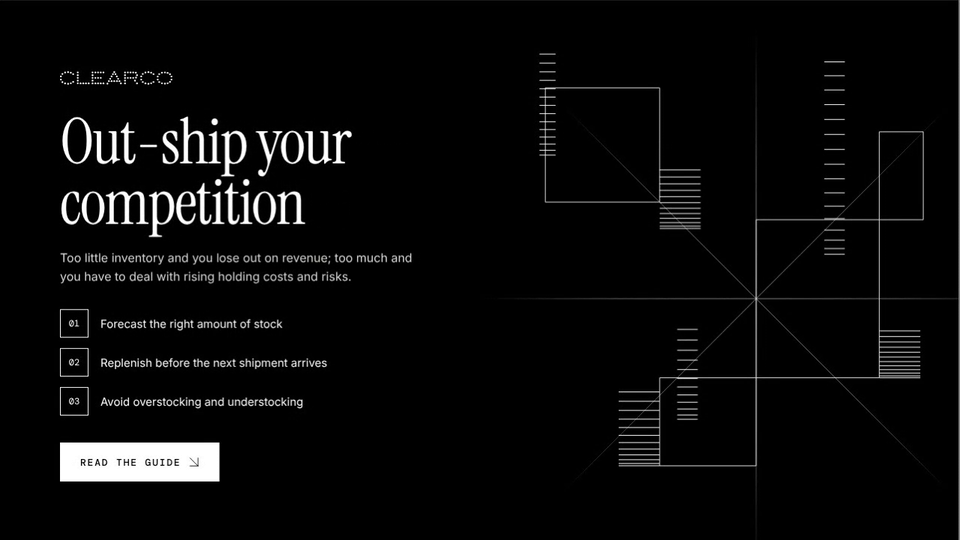
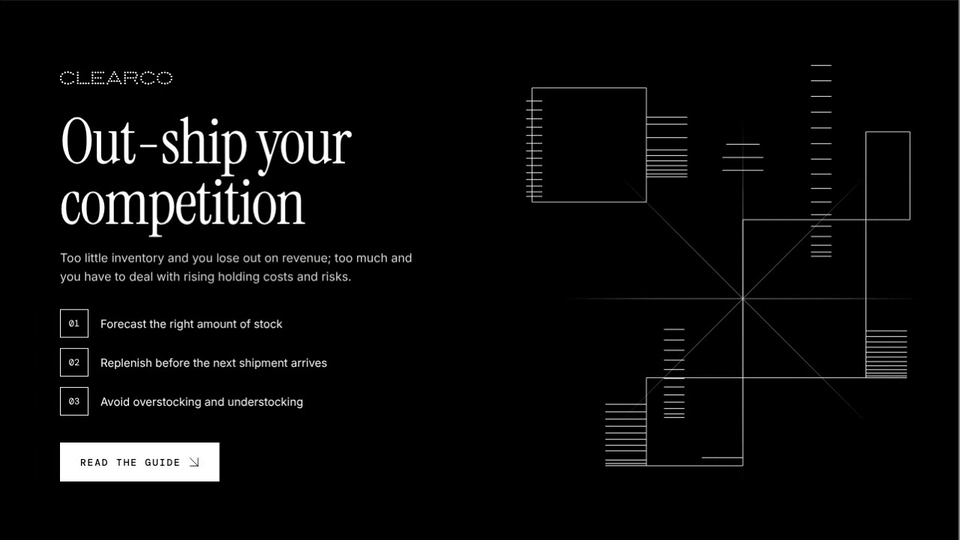
Clearco Logistics Guide: hero line sequence, grid alignment, shorter rays, caption wording (#106)
* Clearco Logistics Guide: hero centre line aligns to a vertical grid line in the quote section

Claude-Session: https://claude.ai/code/session_01AHeBdwjGFXBCupAH8deQwB

* Clearco Logistics Guide: skinny hero stack sits lower with limited travel so it keeps clear of the top of the screen

Claude-Session: https://claude.ai/code/session_01AHeBdwjGFXBCupAH8deQwB

* Clearco Logistics Guide: lines slide out of two stacks and form emerging stacks at the centre line; shorter rays that stop above the next section

- Hero: 1-2 lines slide out of two stacks, across to the centre line, and join one new line each to make a 3-line stack above and below; the stacks float, their lines disappear in sequence, the slid lines return, and it loops
- Hero rays shortened so the vertical line no longer reaches the next section
- Re-record clip

Claude-Session: https://claude.ai/code/session_01AHeBdwjGFXBCupAH8deQwB

* Clearco Logistics Guide: caption reads 'Every 40 seconds, a product enters the logistics system.'

Claude-Session: https://claude.ai/code/session_01AHeBdwjGFXBCupAH8deQwB

---------

diff --git a/clearco-logistics-guide/index.html b/clearco-logistics-guide/index.html
@@ -224,7 +224,7 @@ footer .sign{margin-top:28px;color:#fff;font-size:14px}
     </ul>
     <a class="btn light" href="https://www.clear.co/blog/navigating-inventory-logistics-a-resource-for-founders">Read the guide <svg class="arr" viewBox="0 0 24 24" width="14" height="14" fill="none" stroke="currentColor" stroke-width="1.5" stroke-linecap="square" aria-hidden="true"><path d="M3 3 21 21M21 3v18M3 21h18"/></svg></a>
     </div>
-    <div class="vis"><svg viewBox="-40 -40 596 596" width="596" height="596" role="img" aria-label="Abstract linework: four outlined boxes meeting corner to corner and thin lines radiating from a centre point on black, with stacks of parallel white lines that float up and down"><defs><linearGradient id="r0" gradientUnits="userSpaceOnUse" x1="288" y1="288" x2="668.0" y2="288.0"><stop offset="0" stop-color="#fff" stop-opacity=".55"/><stop offset=".5" stop-color="#fff" stop-opacity=".45"/><stop offset="1" stop-color="#fff" stop-opacity="0"/></linearGradient><linearGradient id="r1" gradientUnits="userSpaceOnUse" x1="288" y1="288" x2="556.7" y2="556.7"><stop offset="0" stop-color="#fff" stop-opacity=".55"/><stop offset=".5" stop-color="#fff" stop-opacity=".45"/><stop offset="1" stop-color="#fff" stop-opacity="0"/></linearGradient><linearGradient id="r2" gradientUnits="userSpaceOnUse" x1="288" y1="288" x2="288.0" y2="668.0"><stop offset="0" stop-color="#fff" stop-opacity=".55"/><stop offset=".5" stop-color="#fff" stop-opacity=".45"/><stop offset="1" stop-color="#fff" stop-opacity="0"/></linearGradient><linearGradient id="r3" gradientUnits="userSpaceOnUse" x1="288" y1="288" x2="19.3" y2="556.7"><stop offset="0" stop-color="#fff" stop-opacity=".55"/><stop offset=".5" stop-color="#fff" stop-opacity=".45"/><stop offset="1" stop-color="#fff" stop-opacity="0"/></linearGradient><linearGradient id="r4" gradientUnits="userSpaceOnUse" x1="288" y1="288" x2="-92.0" y2="288.0"><stop offset="0" stop-color="#fff" stop-opacity=".55"/><stop offset=".5" stop-color="#fff" stop-opacity=".45"/><stop offset="1" stop-color="#fff" stop-opacity="0"/></linearGradient><linearGradient id="r5" gradientUnits="userSpaceOnUse" x1="288" y1="288" x2="19.3" y2="19.3"><stop offset="0" stop-color="#fff" stop-opacity=".55"/><stop offset=".5" stop-color="#fff" stop-opacity=".45"/><stop offset="1" stop-color="#fff" stop-opacity="0"/></linearGradient><linearGradient id="r6" gradientUnits="userSpaceOnUse" x1="288" y1="288" x2="288.0" y2="-92.0"><stop offset="0" stop-color="#fff" stop-opacity=".55"/><stop offset=".5" stop-color="#fff" stop-opacity=".45"/><stop offset="1" stop-color="#fff" stop-opacity="0"/></linearGradient><linearGradient id="r7" gradientUnits="userSpaceOnUse" x1="288" y1="288" x2="556.7" y2="19.3"><stop offset="0" stop-color="#fff" stop-opacity=".55"/><stop offset=".5" stop-color="#fff" stop-opacity=".45"/><stop offset="1" stop-color="#fff" stop-opacity="0"/></linearGradient></defs><g fill="none" stroke="#fff" stroke-width="1" vector-effect="non-scaling-stroke"><g class="ray"><line x1="288" y1="288" x2="668.0" y2="288.0" stroke="url(#r0)"/><line x1="288" y1="288" x2="556.7" y2="556.7" stroke="url(#r1)"/><line x1="288" y1="288" x2="288.0" y2="668.0" stroke="url(#r2)"/><line x1="288" y1="288" x2="19.3" y2="556.7" stroke="url(#r3)"/><line x1="288" y1="288" x2="-92.0" y2="288.0" stroke="url(#r4)"/><line x1="288" y1="288" x2="19.3" y2="19.3" stroke="url(#r5)"/><line x1="288" y1="288" x2="288.0" y2="-92.0" stroke="url(#r6)"/><line x1="288" y1="288" x2="556.7" y2="19.3" stroke="url(#r7)"/></g><g class="blk" opacity=".9"><rect x="0" y="0" width="156" height="156"/><rect x="288" y="180" width="168" height="216"/><rect x="456" y="60" width="60" height="120"/><rect x="156" y="396" width="132" height="120"/></g></g><g stroke="#fff" stroke-width="1"><g class="st" data-x="156" data-y="116" data-h="80" data-w="56" data-start="0.2"></g><g class="st" data-x="100" data-y="484" data-h="64" data-w="56" data-start="1.4"></g><g class="st" data-x="456" data-y="364" data-h="64" data-w="56" data-start="2.6"></g><g class="st" data-x="381" data-y="133" data-h="194" data-w="28" data-n="16" data-start="0.9"></g><g class="st" data-x="180" data-y="390" data-h="120" data-w="28" data-n="12" data-start="2.1"></g><g class="st" data-x="-8" data-y="14" data-h="120" data-w="22" data-n="14" data-start="1.7"></g></g></svg></div>
+    <div class="vis"><svg viewBox="-40 -40 596 596" width="596" height="596" role="img" aria-label="Abstract linework: four outlined boxes meeting corner to corner and thin lines radiating from a centre point on black, with stacks of parallel white lines that float up and down"><defs><linearGradient id="r0" gradientUnits="userSpaceOnUse" x1="288" y1="288" x2="538.0" y2="288.0"><stop offset="0" stop-color="#fff" stop-opacity=".55"/><stop offset=".5" stop-color="#fff" stop-opacity=".45"/><stop offset="1" stop-color="#fff" stop-opacity="0"/></linearGradient><linearGradient id="r1" gradientUnits="userSpaceOnUse" x1="288" y1="288" x2="464.8" y2="464.8"><stop offset="0" stop-color="#fff" stop-opacity=".55"/><stop offset=".5" stop-color="#fff" stop-opacity=".45"/><stop offset="1" stop-color="#fff" stop-opacity="0"/></linearGradient><linearGradient id="r2" gradientUnits="userSpaceOnUse" x1="288" y1="288" x2="288.0" y2="538.0"><stop offset="0" stop-color="#fff" stop-opacity=".55"/><stop offset=".5" stop-color="#fff" stop-opacity=".45"/><stop offset="1" stop-color="#fff" stop-opacity="0"/></linearGradient><linearGradient id="r3" gradientUnits="userSpaceOnUse" x1="288" y1="288" x2="111.2" y2="464.8"><stop offset="0" stop-color="#fff" stop-opacity=".55"/><stop offset=".5" stop-color="#fff" stop-opacity=".45"/><stop offset="1" stop-color="#fff" stop-opacity="0"/></linearGradient><linearGradient id="r4" gradientUnits="userSpaceOnUse" x1="288" y1="288" x2="38.0" y2="288.0"><stop offset="0" stop-color="#fff" stop-opacity=".55"/><stop offset=".5" stop-color="#fff" stop-opacity=".45"/><stop offset="1" stop-color="#fff" stop-opacity="0"/></linearGradient><linearGradient id="r5" gradientUnits="userSpaceOnUse" x1="288" y1="288" x2="111.2" y2="111.2"><stop offset="0" stop-color="#fff" stop-opacity=".55"/><stop offset=".5" stop-color="#fff" stop-opacity=".45"/><stop offset="1" stop-color="#fff" stop-opacity="0"/></linearGradient><linearGradient id="r6" gradientUnits="userSpaceOnUse" x1="288" y1="288" x2="288.0" y2="38.0"><stop offset="0" stop-color="#fff" stop-opacity=".55"/><stop offset=".5" stop-color="#fff" stop-opacity=".45"/><stop offset="1" stop-color="#fff" stop-opacity="0"/></linearGradient><linearGradient id="r7" gradientUnits="userSpaceOnUse" x1="288" y1="288" x2="464.8" y2="111.2"><stop offset="0" stop-color="#fff" stop-opacity=".55"/><stop offset=".5" stop-color="#fff" stop-opacity=".45"/><stop offset="1" stop-color="#fff" stop-opacity="0"/></linearGradient></defs><g fill="none" stroke="#fff" stroke-width="1" vector-effect="non-scaling-stroke"><g class="ray"><line x1="288" y1="288" x2="538.0" y2="288.0" stroke="url(#r0)"/><line x1="288" y1="288" x2="464.8" y2="464.8" stroke="url(#r1)"/><line x1="288" y1="288" x2="288.0" y2="538.0" stroke="url(#r2)"/><line x1="288" y1="288" x2="111.2" y2="464.8" stroke="url(#r3)"/><line x1="288" y1="288" x2="38.0" y2="288.0" stroke="url(#r4)"/><line x1="288" y1="288" x2="111.2" y2="111.2" stroke="url(#r5)"/><line x1="288" y1="288" x2="288.0" y2="38.0" stroke="url(#r6)"/><line x1="288" y1="288" x2="464.8" y2="111.2" stroke="url(#r7)"/></g><g class="blk" opacity=".9"><rect x="0" y="0" width="156" height="156"/><rect x="288" y="180" width="168" height="216"/><rect x="456" y="60" width="60" height="120"/><rect x="156" y="396" width="132" height="120"/></g></g><g stroke="#fff" stroke-width="1"><g class="st" data-x="156" data-y="116" data-h="80" data-w="56" data-start="0.2"></g><g class="st" data-x="100" data-y="484" data-h="64" data-w="56" data-start="1.4"></g><g class="st" data-x="456" data-y="364" data-h="64" data-w="56" data-start="2.6"></g><g class="st" data-x="381" data-y="133" data-h="194" data-w="28" data-n="16" data-start="0.9"></g><g class="st" data-x="180" data-y="390" data-h="120" data-w="28" data-n="12" data-start="2.1"></g><g class="st" data-x="-8" data-y="78" data-h="120" data-w="22" data-n="14" data-range="1" data-start="1.7"></g></g></svg></div>
   </div>
 </header>
 
@@ -338,7 +338,7 @@ footer .sign{margin-top:28px;color:#fff;font-size:14px}
 <section class="stat" id="stat">
   <canvas class="bars" aria-hidden="true"></canvas>
   <div class="wrap">
-    <p class="cap">Every 40 seconds, products are entering<br class="brk"> the logistics system.</p>
+    <p class="cap">Every 40 seconds, a product enters<br class="brk"> the logistics system.</p>
     <a class="btn outline" href="https://www.clear.co/blog/navigating-inventory-logistics-a-resource-for-founders">Track with Clearco <svg class="arr" viewBox="0 0 24 24" width="14" height="14" fill="none" stroke="currentColor" stroke-width="1.5" stroke-linecap="square" aria-hidden="true"><path d="M3 3 21 21M21 3v18M3 21h18"/></svg></a>
   </div>
 </section>
@@ -460,6 +460,15 @@ footer .sign{margin-top:28px;color:#fff;font-size:14px}
           spotsFree = 0;
           for (i = 0; i < NC; i++) for (j = 0; j < NR; j++) if (hasV[i] && hasH[j] && !isBlocked(i, j)) spotsFree++;
         } while (spotsFree < 8 && ++tries < 80);
+        /* line the hero visual's centre ray up with the nearest vertical line of this grid: nudge the visual sideways and keep that line */
+        var vis = document.querySelector('.vis'), vsvg = vis && vis.querySelector('svg');
+        if (vsvg) {
+          vis.style.transform = '';
+          var vr = vsvg.getBoundingClientRect(), hx = vr.left + vr.width * (288 + 40) / 596, best = 0, bd = 1e9;
+          for (i = 0; i < NC; i++) { var dd = Math.abs(r.left + px(i) - hx); if (dd < bd) { bd = dd; best = i; } }
+          hasV[best] = true;
+          vis.style.transform = 'translateX(' + (r.left + px(best) - hx).toFixed(2) + 'px)';
+        }
         for (i = 0; i < NC; i++) if (hasV[i]) {
           var cx2 = Math.round(px(i) * dpr) - (cb && Math.abs(px(i) - (cb.x + cb.w)) < 1 ? 1 : 0);   // the card's right edge sits one device pixel inside, like its outline
           g.moveTo((cx2 + .5) / dpr, 0); g.lineTo((cx2 + .5) / dpr, H);
@@ -645,7 +654,7 @@ footer .sign{margin-top:28px;color:#fff;font-size:14px}
     if (!svgEl) return;
     var N = 12, STEP = 36, RANGE = 2, NS = 'http://www.w3.org/2000/svg';
     var stacks = [].map.call(svgEl.querySelectorAll('.st'), function(g){
-      var d = g.dataset, st = { x: +d.x, y: +d.y, base: +d.y, h: +d.h, w: +d.w, n: +d.n || N, mv: null, next: performance.now() + (+d.start) * 1000, lines: [] };
+      var d = g.dataset, st = { x: +d.x, y: +d.y, base: +d.y, h: +d.h, w: +d.w, n: +d.n || N, range: +d.range || RANGE, mv: null, next: performance.now() + (+d.start) * 1000, lines: [] };
       for (var k = 0; k < st.n; k++) {
         var l = document.createElementNS(NS, 'line');
         l.setAttribute('x1', st.x); l.setAttribute('x2', st.x + st.w); g.appendChild(l); st.lines.push(l);
@@ -669,14 +678,55 @@ footer .sign{margin-top:28px;color:#fff;font-size:14px}
         return;
       }
       if (now < st.next) return;
-      var ups = st.y - STEP >= st.base - RANGE * STEP, downs = st.y + STEP <= st.base + RANGE * STEP;
+      var ups = st.y - STEP >= st.base - st.range * STEP, downs = st.y + STEP <= st.base + st.range * STEP;
       var dir = ups && downs ? (Math.random() < .5 ? -1 : 1) : (ups ? -1 : 1);
-      var room = dir < 0 ? Math.floor((st.y - (st.base - RANGE * STEP)) / STEP) : Math.floor(((st.base + RANGE * STEP) - st.y) / STEP);
+      var room = dir < 0 ? Math.floor((st.y - (st.base - st.range * STEP)) / STEP) : Math.floor(((st.base + st.range * STEP) - st.y) / STEP);
       var dist = Math.min(room, Math.random() < .5 ? 1 : 2);
       st.mv = { t0: now, dur: 1500 + dist * 650, y0: st.y, y1: st.y + dir * dist * STEP, dir: dir };
     }
+
+    /* every cycle: lines slide out of two of the stacks, across to the centre line, and take part in a new 3-line stack that emerges there
+       (one above, one below); the new stacks float, then their lines disappear one after another and the slid lines return. It loops. */
+    var gEl = stacks[0].lines[0].parentNode.parentNode, T = 12, CX = 288, LW = 56, GAP = 18, DD = 44;
+    function mk(){ var l = document.createElementNS(NS, 'line'); l.style.display = 'none'; gEl.appendChild(l); return l; }
+    var groups = [
+      { dir: -1, off: 0,  src: stacks[0], idx: [2, 4], sl: [mk(), mk()], em: [mk()], prev: 99, Y: [] },
+      { dir: 1,  off: .9, src: stacks[1], idx: [8],    sl: [mk()],       em: [mk(), mk()], prev: 99, Y: [] }
+    ];
+    function sgn(x){ return Math.sin(Math.PI * clamp01(x)); }
+    function seq(now){
+      groups.forEach(function(g){
+        var t = (((now / 1000 - g.off) % T) + T) % T;
+        if (t < g.prev) {                                           // new cycle: take the lines' current heights
+          var ys = g.idx.map(function(i){ return +g.src.lines[i].getAttribute('y1'); });
+          if (g.dir < 0) { ys.sort(function(a, b){ return a - b; }); g.Y = [ys[0], ys[1], ys[0] - GAP]; }
+          else { g.Y = [ys[0], ys[0] + GAP, ys[0] + 2 * GAP]; }
+        }
+        g.prev = t;
+        var all = g.sl.length + g.em.length;
+        g.sl.forEach(function(l, k){
+          var s0 = .2 + k * .3, b0 = 8.8 + k * .3, srcLine = g.src.lines[g.idx[k]];
+          var pin = ease.sine(clamp01((t - s0) / 1.8)), pout = ease.sine(clamp01((t - b0) / 1.8)), p = pin - pout;
+          var on = t > s0 && t < b0 + 1.8;
+          srcLine.style.visibility = on ? 'hidden' : '';
+          l.style.display = on ? '' : 'none';
+          if (!on) return;
+          var live = +srcLine.getAttribute('y1'), y = g.Y[k] * (1 - pout) + live * pout + g.dir * DD * sgn((t - 3.2 - k * .1) / 3.2);
+          var x1 = g.src.x + (CX - LW / 2 - g.src.x) * p;
+          l.setAttribute('x1', x1.toFixed(2)); l.setAttribute('x2', (x1 + LW).toFixed(2)); l.setAttribute('y1', y.toFixed(2)); l.setAttribute('y2', y.toFixed(2));
+        });
+        g.em.forEach(function(l, j){
+          var k = g.sl.length + j, e0 = 1.9 + j * .3, d0 = 8.4 + j * .3;
+          var f = ease.sine(clamp01((t - e0) / .7)) - ease.sine(clamp01((t - d0) / .7));
+          if (f < .002) { l.style.display = 'none'; return; }
+          l.style.display = '';
+          var y = g.Y[k] + g.dir * DD * sgn((t - 3.2 - k * .1) / 3.2), h = LW / 2 * f;
+          l.setAttribute('x1', (CX - h).toFixed(2)); l.setAttribute('x2', (CX + h).toFixed(2)); l.setAttribute('y1', y.toFixed(2)); l.setAttribute('y2', y.toFixed(2));
+        });
+      });
+    }
     var visible = false, raf = 0;
-    function frame(now){ raf = 0; if (!visible) return; stacks.forEach(function(st){ step(st, now); place(st, now); }); raf = requestAnimationFrame(frame); }
+    function frame(now){ raf = 0; if (!visible) return; stacks.forEach(function(st){ step(st, now); place(st, now); }); seq(now); raf = requestAnimationFrame(frame); }
     stacks.forEach(function(st){ place(st, 0); });
     if (reduce) return;
     function sync(){ if (visible && !raf) raf = requestAnimationFrame(frame); }
